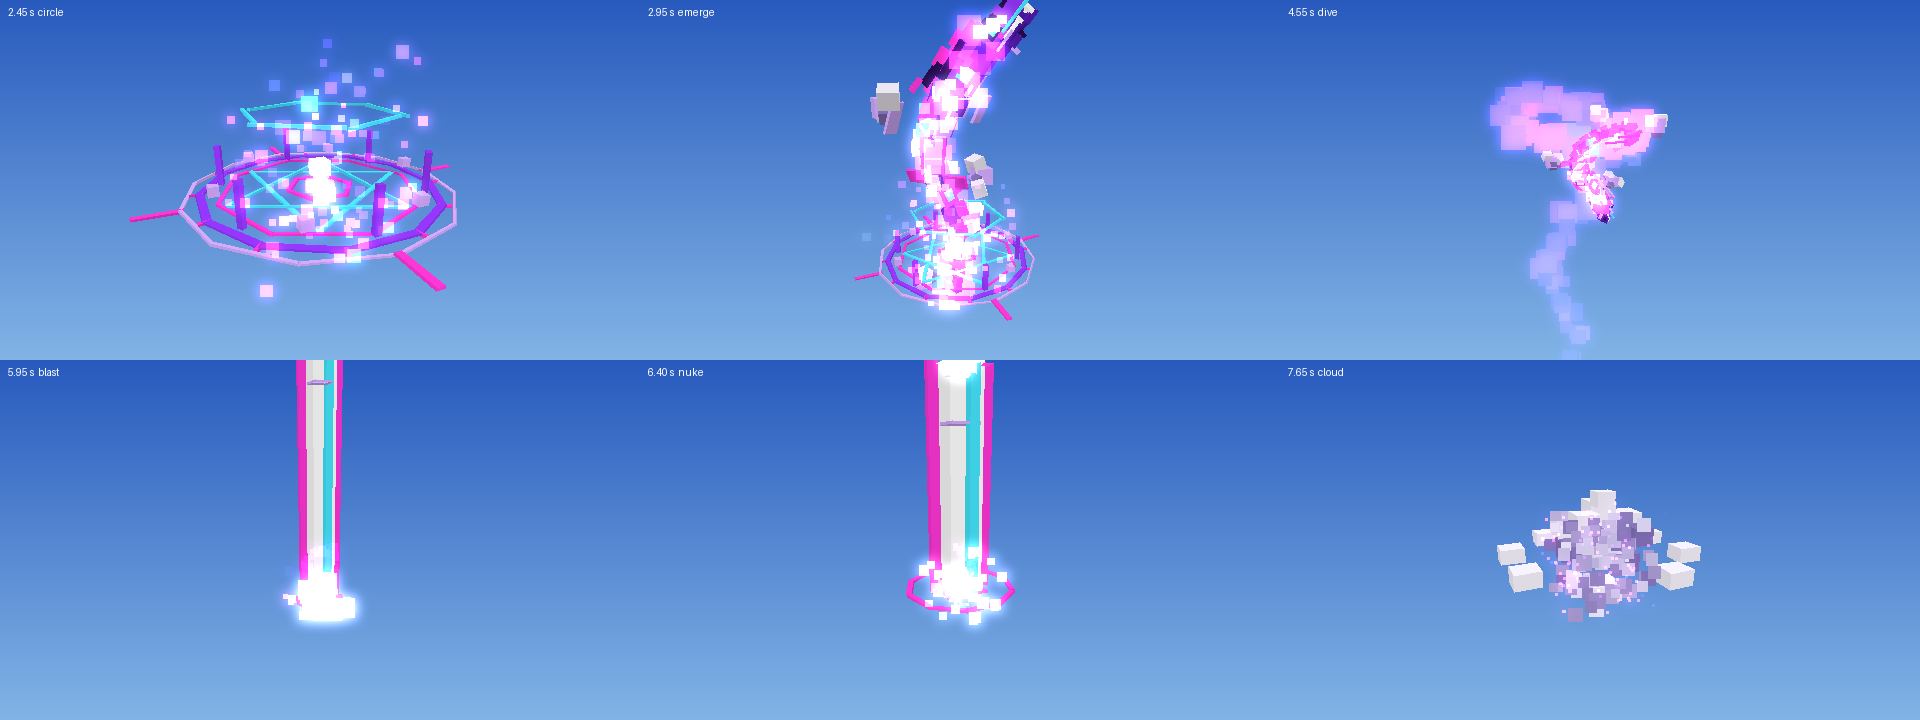
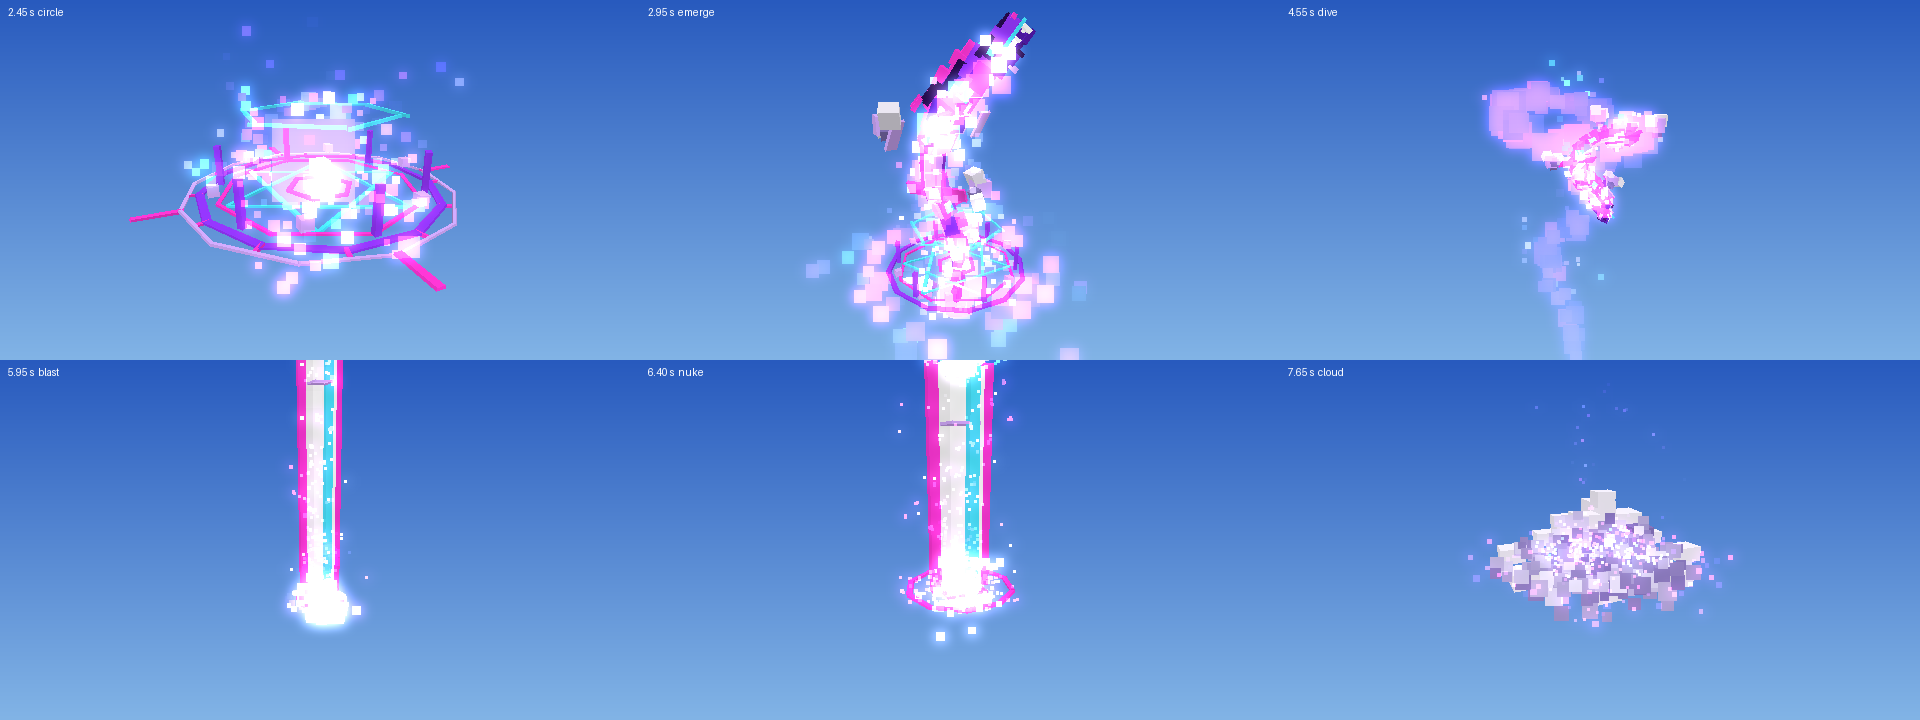
Upgrade the particle effects: embers, streaks, gathering glints, debris, true shock rings and glows; beam filled with particles along its height

diff --git a/dragon_pulse/world_code.js b/dragon_pulse/world_code.js
@@ -248,6 +248,12 @@ var DP_FX = {
   smoke: { tex: "square_particle", life: [1.2, 2], size: [1.5, 3], speed: [0.5, 2], grav: 0.8, col: ["smoke", "shade"], fade: [0.85, 0], blend: 1, drag: 0.2 },
   trail: { tex: "square_particle", life: [1, 1.6], size: [0.5, 1.1], speed: [0, 0.3], col: ["tint", "tint2"], fade: [0.7, 0], blend: 2 },
   spark: { tex: "glint", life: [0.5, 1], size: [0.25, 0.5], speed: [1, 4], col: ["purple", "magenta"], fade: [1, 0], blend: 2, drag: 0.2 },
+  ember: { tex: "square_particle", life: [0.9, 1.6], size: [0.12, 0.3], speed: [0.4, 1.8], grav: 2.5, col: ["tint", "tint2"], fade: [1, 0], blend: 2, hot: 1 },
+  streak: { tex: "glint", life: [0.2, 0.35], size: [0.2, 0.45], speed: [10, 16], col: ["white", "lilac"], fade: [1, 0], blend: 2, drag: 0.5, tight: 1 },
+  gather: { tex: "glint", life: [0.35, 0.5], size: [0.2, 0.4], speed: [5, 7], col: ["tint", "tint2"], fade: [0.4, 1], blend: 2, tight: 1 },
+  debris: { tex: "square_particle", life: [0.7, 1.2], size: [0.2, 0.5], speed: [8, 15], grav: -14, col: ["magenta", "purple"], fade: [1, 0], blend: 2, hot: 1 },
+  shock: { tex: "square_particle", life: [0.4, 0.6], size: [0.5, 1], speed: [12, 16], col: ["tint", "tint2"], fade: [1, 0], blend: 2, drag: 0.3, hot: 1 },
+  glow: { tex: "square_particle", life: [0.25, 0.4], size: [1.4, 2.6], speed: [0, 0.5], col: ["tint", "white"], fade: [0.35, 0], blend: 2 },
 }
 var DP_SKIN = [
   ["purple", "magenta"],
@@ -401,7 +407,9 @@ function dpBeam(c, base, k, tall, wide) {
   for (var n = 0; n < 3; n++) dpPut(c, "beam_ring" + n, top[2], "", dpAdd(base, [0, 1, 0], tall * ((n / 3 + c.t * 0.11) % 1)), null, k)
   dpFx("mote", base, 8, 1.4 * k, "magenta", "white", [0, 1, 0])
   dpFx("flash", dpAdd(base, [0, 1, 0], tall), 6, k)
-  if (c.t % 3 === 0) dpFx("ring", base, 14, 0.4)
+  dpFx("glow", dpAdd(base, [0, 1, 0], tall), 2, k, "magenta")
+  dpColumnFx(c, base, k, tall, wide || 1)
+  if (c.t % 2 === 0) dpRingFx("shock", base, 1.6 * k * (wide || 1), 3, 0.7, 0.1, "magenta", "lilac", 6, c.t)
 }
 
 function dpBurst(c, name, tag, at, k) {
@@ -417,6 +425,13 @@ function dpBoom(c, base, k, tall, e, ring) {
   dpFx("flash", base, 10, (2 + e * 0.5) * k)
   dpFx("impact", base, 8, 2 * k)
   if (e % 3 === 0) dpFx("wave", base, 14, 0.5)
+  if (e < 9) dpFx("debris", base, 7, 1.5 * k, "", "", [0, 1, 0])
+  if (e % 2 === 0) dpRingFx("shock", base, ring * (0.15 + e * 0.07), 4, 1, 0.08, e < 4 ? "lilac" : "magenta", "purple", 8, e * 0.4)
+  if (e === 0) {
+    dpFx("glow", base, 8, 2 * k, "lilac")
+    dpFx("glow", dpAdd(base, [0, 1, 0], tall), 6, 2 * k, "cyan")
+    dpRingFx("shock", dpAdd(base, [0, 1, 0], tall), 2 * k, 5, 1, 0, "cyan", "lilac", 6)
+  }
 }
 
 function dpShock(c, tag, at, rad, thick, col) {
@@ -447,17 +462,24 @@ function dpCircle(c) {
   }
 }
 
-function dpFx(look, pos, n, spread, tint, tint2, dir) {
+function dpFx(look, pos, n, spread, tint, tint2, dir, tall) {
   var L = DP_FX[look]
   var S = 0.6
   var a = DP_COL[L.col[0] === "tint" ? tint : L.col[0]]
   var b = DP_COL[L.col[1] === "tint" ? tint : L.col[1] === "tint2" ? tint2 : L.col[1]]
   var y = L.flat ? 0.04 : 1
+  var w = L.tight ? 0.06 : 0.25
+  var hot = DP_COL.white.concat(L.fade[0])
+  var grad = [
+    { timeFraction: L.hot ? 0.3 : 0, minColor: a.concat(L.fade[0]), maxColor: b.concat(L.fade[0]) },
+    { timeFraction: 1, minColor: a.concat(L.fade[1]), maxColor: b.concat(L.fade[1]) },
+  ]
+  if (L.hot) grad.unshift({ timeFraction: 0, minColor: hot, maxColor: hot })
   api.playParticleEffect({
-    dir1: dir ? dpAdd(dir, [1, 1, 1], -0.25) : [-1, -y, -1],
-    dir2: dir ? dpAdd(dir, [1, 1, 1], 0.25) : [1, y, 1],
-    pos1: [pos[0] - spread, pos[1] - spread, pos[2] - spread],
-    pos2: [pos[0] + spread, pos[1] + spread, pos[2] + spread],
+    dir1: dir ? dpAdd(dir, [1, 1, 1], -w) : [-1, -y, -1],
+    dir2: dir ? dpAdd(dir, [1, 1, 1], w) : [1, y, 1],
+    pos1: [pos[0] - spread, pos[1] - (tall ? 0 : spread), pos[2] - spread],
+    pos2: [pos[0] + spread, pos[1] + (tall || spread), pos[2] + spread],
     texture: L.tex,
     minLifeTime: L.life[0] * S,
     maxLifeTime: L.life[1] * S,
@@ -467,10 +489,7 @@ function dpFx(look, pos, n, spread, tint, tint2, dir) {
     maxSize: L.size[1],
     manualEmitCount: n,
     gravity: [0, (L.grav || 0) / (S * S), 0],
-    colorGradients: [
-      { timeFraction: 0, minColor: a.concat(L.fade[0]), maxColor: b.concat(L.fade[0]) },
-      { timeFraction: 1, minColor: a.concat(L.fade[1]), maxColor: b.concat(L.fade[1]) },
-    ],
+    colorGradients: grad,
     velocityGradients: [
       { timeFraction: 0, factor: 1, factor2: 1 },
       { timeFraction: 1, factor: L.drag || 1, factor2: L.drag || 1 },
@@ -478,6 +497,27 @@ function dpFx(look, pos, n, spread, tint, tint2, dir) {
     blendMode: L.blend,
     hideDist: DP_CFG.hideDist,
   })
+}
+
+function dpRingFx(look, pos, rad, n, out, lift, tint, tint2, pts, turn) {
+  pts = pts || 6
+  for (var i = 0; i < pts; i++) {
+    var a = (i / pts) * 6.2832 + (turn || 0)
+    var x = Math.cos(a)
+    var z = Math.sin(a)
+    dpFx(look, [pos[0] + x * rad, pos[1], pos[2] + z * rad], n, (rad * 3.2) / pts, tint, tint2, [x * out, lift, z * out], 0.3)
+  }
+}
+
+function dpColumnFx(c, base, k, tall, wide) {
+  var r = 1.5 * k * wide
+  dpFx("streak", base, 6, r, "", "", [0, 1, 0], tall)
+  dpFx("ember", base, 5, r * 1.6, "magenta", "lilac", null, tall)
+  for (var i = 0; i < 3; i++) {
+    var a = c.t * 0.7 + i * 2.094
+    var h = tall * ((c.t * 0.09 + i / 3) % 1)
+    dpFx("spark", [base[0] + Math.cos(a) * r * 1.3, base[1] + h, base[2] + Math.sin(a) * r * 1.3], 3, 0.2 * k, "", "", [-Math.sin(a), 0.6, Math.cos(a)])
+  }
 }
 
 var dpNext = (c) => {
@@ -509,6 +549,7 @@ function dpFly(c, pos) {
   var skin = DP_SKIN[c.t % DP_SKIN.length]
   dpFx("aura", pos, 5, 0.9 * k, skin[0], skin[1])
   dpFx("outline", pos, 3, 1.1 * k)
+  dpFx("streak", pos, 3, 0.8 * k, "", "", [-f[0], -f[1], -f[2]])
   var n = c.path.length
   var mid = c.path[Math.max(0, n - 2 - ((c.t * 3) % 9))]
   var skin2 = DP_SKIN[(c.t + 2) % DP_SKIN.length]
@@ -516,6 +557,7 @@ function dpFly(c, pos) {
   if (c.t % 2 === 0) dpFx("wisp", c.path[Math.max(0, n - 10)], 2, 0.6 * k)
   dpFx("trail", c.path[Math.max(0, n - 15)], 3, 0.5 * k, "purple", "magenta")
   dpFx("trail", c.path[Math.max(0, n - 22)], 2, 0.4 * k, "deep", "purple")
+  dpFx("ember", c.path[Math.max(0, n - 6 - ((c.t * 5) % 14))], 3, 0.8 * k, skin2[0], "lilac")
 }
 
 function dpSpiral(c, mid, rad, turn) {
@@ -534,6 +576,10 @@ var DP_PHASE = [
     var skin = DP_SKIN[c.t % DP_SKIN.length]
     dpFx("mote", c.home, c.t > T - 12 ? 8 : 3, 2.6, skin[0], skin[1], [0, 1, 0])
     if (c.t % 10 === 9) dpFx("ring", c.home, 10, 0.3)
+    if (c.t % 2 === 0) dpFx("ember", c.home, 3, 3.4, skin[0], "lilac", null, 0.4)
+    if (c.t % 3 === 0 && c.t > 12) dpRingFx("gather", dpAdd(c.home, [0, 1, 0], 0.5), 3.6, 2, -1, 0.05, "cyan", "magenta", 6, c.t * 0.3)
+    if (c.t > T - 16) dpFx("streak", c.home, 4, 0.5, "", "", [0, 1, 0], 0.5)
+    if (c.t > T - 6 && c.t % 2 === 0) dpFx("glow", dpAdd(c.home, [0, 1, 0], 0.7), 1, 0.3, "magenta")
     if (c.t === T - 24) dpSound("build", c.home)
     if (c.t >= T - 1) dpNext(c)
   },
@@ -546,6 +592,9 @@ var DP_PHASE = [
       dpGroup(c, "pillar", "pillar_", "", c.home, DP_UP, 1, true)
       dpFx("flash", c.home, 12, 1.5)
       dpFx("ring", c.home, 20, 0.4)
+      dpFx("glow", c.home, 5, 1.5, "magenta")
+      dpFx("debris", c.home, 10, 1.2, "", "", [0, 1, 0])
+      dpRingFx("shock", c.home, 1.5, 4, 1, 0.08, "magenta", "cyan", 8)
       dpSound("emerge", c.home)
     }
     c.ct = c.T + c.t
@@ -557,6 +606,8 @@ var DP_PHASE = [
     }
     if (c.t === 7) dpDrop(c, "pillar_")
     dpFx("mote", c.home, 6, 2.6, "magenta", "lilac", [0, 1, 0])
+    dpFx("streak", c.home, 4, 1.2, "", "", [0, 1, 0], h * 1.2)
+    if (c.t % 3 === 1) dpRingFx("shock", c.home, 1 + c.t * 0.35, 2, 0.6, 0.05, "purple", "magenta", 6, c.t)
     dpSpiral(c, mid, Math.min(2, h * 0.2), 0.5)
     if (mid[1] >= c.home[1] + c.reach) {
       dpDrop(c, "ring")
@@ -574,6 +625,9 @@ var DP_PHASE = [
     c.far = Math.max(1, dpLen(dpSub(goal, c.at)))
     dpFx("ring", goal, 14, 0.3)
     dpFx("impact", goal, 6, 0.5)
+    dpRingFx("gather", goal, 3.2, 4, -1, 0, "cyan", "white", 8)
+    dpFx("glow", goal, 2, 0.3, "cyan")
+    dpRingFx("shock", c.at, 1.5, 3, 1, 0, "lilac", "magenta", 6)
     dpSound("lock", c.at)
     dpSound("dive", c.at)
     dpNext(c)
@@ -604,6 +658,8 @@ var DP_PHASE = [
       var at = dpAt(goal, c.B, 0, c.t === 2 ? -0.8 : 0.9, c.t === 2 ? 0.2 : 0.7)
       dpBurst(c, "flare", tag, at, 1)
       dpFx("impact", at, 12, 0.3)
+      dpFx("glow", at, 3, 0.4, c.t === 2 ? "cyan" : "gold")
+      dpRingFx("shock", at, 0.6, 3, 1, 0, "lilac", c.t === 2 ? "cyan" : "gold", 6)
       dpSound("flare", at, c.t === 2 ? 1 : 1.2)
     }
     if (c.t === 6) dpDrop(c, "flareA_")
@@ -635,6 +691,8 @@ var DP_PHASE = [
     dpCloud(c, "smoke", b, 14, 24, 30, 0.04)
     if (c.t < 26 && c.t % 2 === 0) dpFx("smoke", dpAt(c.goal, c.B, 0, 0, 1.5 * b), 7, 2.5 * b)
     if (c.t % 3 === 0) dpFx("spark", dpAt(c.goal, c.B, 0, 0, 0.5), 7, 2.5 * b)
+    if (c.t < 28) dpFx("ember", c.goal, 4, 3 * b, "magenta", "purple", null, 1)
+    if (c.t < 12 && c.t % 3 === 0) dpRingFx("smoke", c.goal, 2 + c.t * 0.5, 2, 0.6, 0.1, "", "", 6, c.t)
     if (c.t >= 35) c.ph = 99
   },
 
@@ -643,11 +701,15 @@ var DP_PHASE = [
     if (c.t === 0) {
       dpFx("flash", c.base, 20, 3)
       dpFx("wave", c.base, 20, 0.5)
+      dpFx("glow", c.base, 8, 2.5, "cyan")
+      dpRingFx("shock", c.base, 2, 6, 1, 0, "cyan", "magenta", 8)
+      dpRingFx("shock", c.base, 1, 4, 0.5, 1, "lilac", "magenta", 6, 0.5)
       dpSound("merge", c.base)
       dpSound("climb", c.base)
     }
     dpSpiral(c, [c.base[0], c.base[1] + h * 0.8, c.base[2]], Math.min(4, h * 0.4), 0.36)
     if (c.t % 4 === 0) dpFx("ring", c.at, 12, 0.5)
+    if (c.t % 3 === 0) dpRingFx("gather", c.at, 6, 3, -1, 0, "cyan", "magenta", 6, c.t)
     if (h * 0.8 >= c.reach) dpNext(c)
   },
 
@@ -684,6 +746,9 @@ var DP_PHASE = [
     if (c.t === 36) dpDrop(c, "dust_")
     if (c.t < 30 && c.t % 2 === 0) dpFx("smoke", c.ground, 10, 9 * b)
     if (c.t % 2 === 0) dpFx("spark", c.ground, 10, 10 * b)
+    if (c.t < 40) dpFx("ember", c.ground, 8, 11 * b, "magenta", "cyan", null, 3)
+    if (c.t < 20 && c.t % 3 === 0) dpRingFx("smoke", c.ground, wide, 3, 0.7, 0.15, "", "", 10, c.t)
+    if (c.t < 16 && c.t % 4 === 0) dpRingFx("shock", c.ground, wide * 1.2, 3, 1, 0.05, "purple", "magenta", 10, c.t)
     if (c.t >= 49) c.ph = 99
   },
 ]

diff --git a/dragon_pulse/tools/render.py b/dragon_pulse/tools/render.py
@@ -98,7 +98,7 @@ def load(path):
                 rnd = lambda a, b: a + (b - a) * random.random()
                 dirv = [rnd(o['dir1'][i], o['dir2'][i]) for i in range(3)]
                 power = rnd(o['minEmitPower'], o['maxEmitPower']) * S
-                c0 = o['colorGradients'][0]; k = random.random()
+                c0 = o['colorGradients'][1 if len(o['colorGradients']) > 2 else 0]; k = random.random()
                 live.append(dict(born=f['t'], life=rnd(o['minLifeTime'], o['maxLifeTime']) / S,
                                  pos=[rnd(o['pos1'][i], o['pos2'][i]) for i in range(3)], vel=[v * power for v in dirv],
                                  grav=o['gravity'][1] * S * S, size=rnd(o['minSize'], o['maxSize']), blend=o['blendMode'],

diff --git a/README.md b/README.md
@@ -133,9 +133,9 @@ The meshes sit over your own skin; they do not hide it.
 
 | File | Goes into | Characters | Limit |
 |---|---|---|---|
-| `world_code.js` | World Code | 30,893 | 512,000 |
-| `goodra.js` | World Code, below `world_code.js` | 10,215 | 512,000 together: 41,109 |
-| `skin.js` | World Code | 6,032 | 512,000, all three together: 47,142 |
+| `world_code.js` | World Code | 35,361 | 512,000 |
+| `goodra.js` | World Code, below `world_code.js` | 10,215 | 512,000 together: 45,577 |
+| `skin.js` | World Code | 6,032 | 512,000, all three together: 51,610 |
 | `code_block.js` | Code Block | 18 | 32,000 |
 | `studio/particles_only.code_block.js` | Code Block | 13,414 | 32,000 |
 
@@ -249,7 +249,22 @@ meshes of a standing Goodra count toward it, so the code never asks for a 400th.
 
 ## The particles
 
-The 11 particle looks are in `DP_FX` in `world_code.js`, in seconds and blocks.
+The 17 particle looks are in `DP_FX` in `world_code.js`, in seconds and blocks.
+
+| Look | Where it shows |
+|---|---|
+| `ember` | Small squares that start white, turn to colour and drift up: off the circle, off the dragon's body, around the beam, over the smoke |
+| `streak` | Fast thin glints in one direction: speed lines behind the dragon's head, lines racing up the pillar and the beam |
+| `gather` | Glints that fly inward from a ring: energy pulled into the circle, the lock-on closing on the target, the merged dragon charging |
+| `debris` | Bright bits thrown up that fall back: when the dragon breaks out of the floor and when the beam explodes |
+| `shock` | True rings that spread outward (see `dpRingFx`): at the foot of the beam, at the explosion, at the beam's top, around the stars, at the merge |
+| `glow` | A few large soft squares for one flash: beam tip, explosion, stars, lock-on, merge |
+
+`dpRingFx(look, pos, radius, count, out, lift, tint, tint2, points, turn)` plays a
+look from `points` places on a circle, each flying outward (`out` 1) or inward
+(`out` -1). `dpColumnFx` fills the beam's whole height with streaks and embers and
+winds three spark points up around it. One cast plays at most about 170 particles
+in a tick, two about 190.
 
 **The Particle Studio scene is out of date.** `dragon_pulse/studio/` still holds
 the first version of the move (orbs, beams, white dragon). It has not been rebuilt
@@ -361,6 +376,8 @@ list.
 | `blend` | 1 normal, 2 glow |
 | `drag` | Share of its speed left at the end. 1 keeps flying |
 | `flat` | 1: flies level, for rings |
+| `hot` | 1: starts white, then turns to its colours |
+| `tight` | 1: flies in a narrow cone, for streaks |
 
 `DP_ORBS` holds where each cloud orb flies: blocks behind the head (negative),
 to the right, and up. `DP_SKIN` holds the colour pairs the dragon shimmers in. `GOODRA_MOUTH`
@@ -384,8 +401,8 @@ It cannot show how the game draws it. Things to look at first in your world:
 - **Many casts at once.** There is no cooldown. Up to `maxCasts` (4) casts run
   together and share `maxMeshes` (399). Two dragons need 371; a third at the same time is cut
   short.
-- **Speed.** At full detail one dragon makes up to 280 api calls per tick, two
-  up to 530. If the game stutters or stops the script, lower `detail`.
+- **Speed.** At full detail one dragon makes up to 290 api calls per tick, two
+  up to 540. If the game stutters or stops the script, lower `detail`.
 - **Killing.** The target is killed with `api.killLifeform`. If the game refuses
   that call, the code takes 99,999 health instead.
 - **The nuke** does not break blocks.
